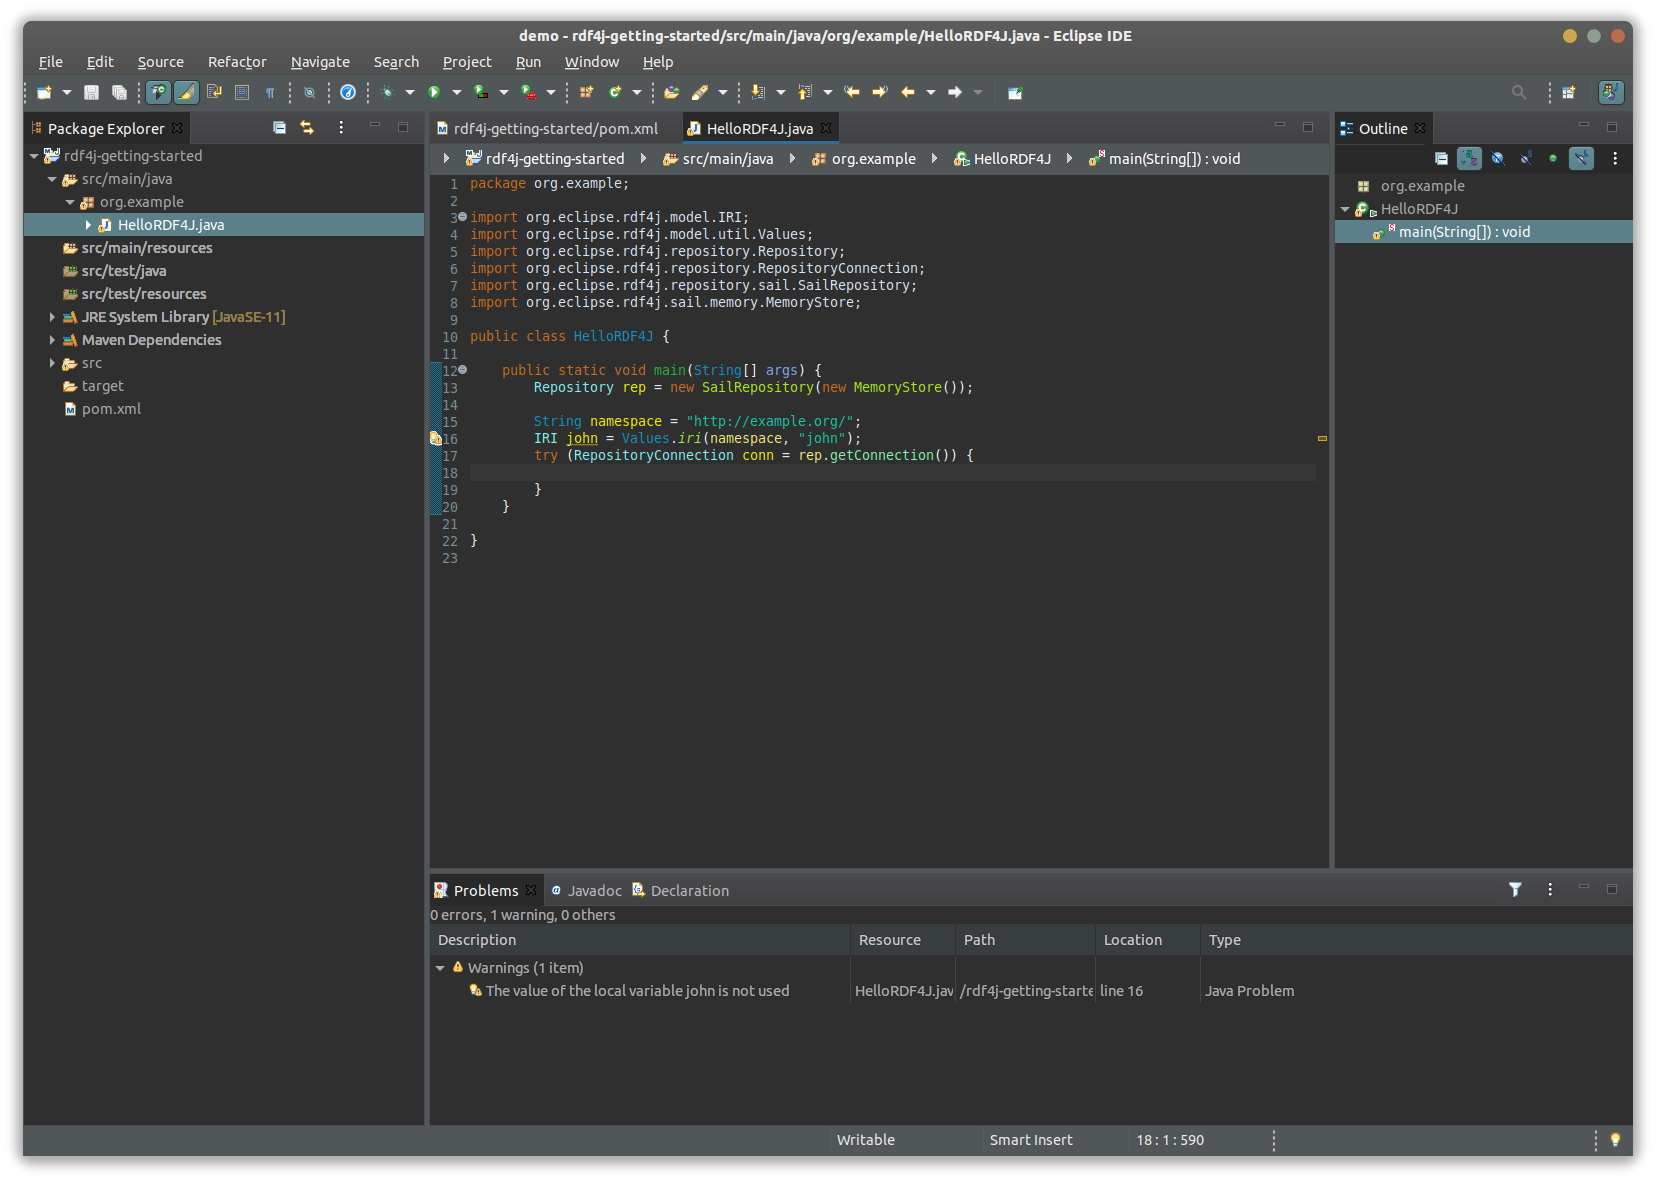
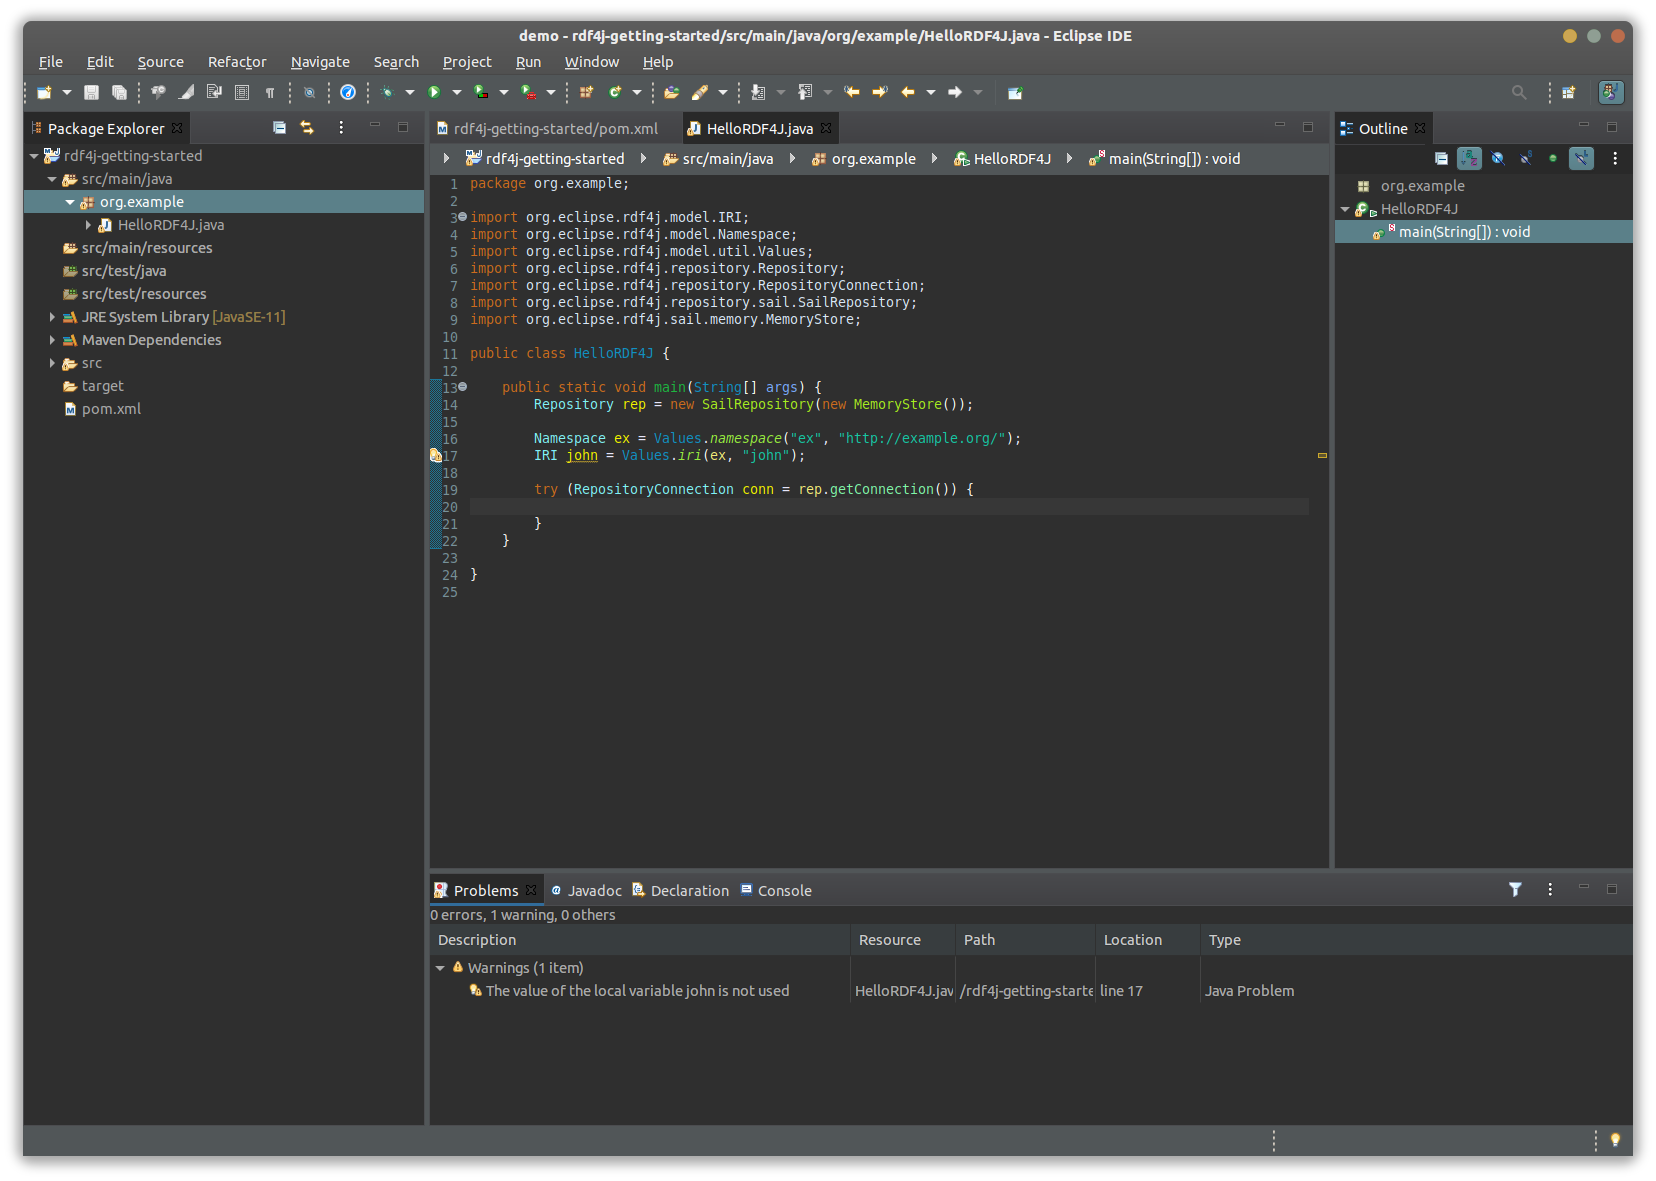
GH-2878 minor editorial changes

diff --git a/site/content/documentation/tutorials/maven-eclipse-project.md b/site/content/documentation/tutorials/maven-eclipse-project.md
@@ -11,11 +11,11 @@ If you are new to RDF4J, or to tools like Eclipse IDE or Apache Maven, this tuto
 You don't <i>have</i> to use Apache Maven or Eclipse IDE if you want to work with RDF4J. These are simply very useful tools for quickly getting a Java project started. Maven is good because it allows you to just define which libraries you want to use and never worry about any further third-party libraries you might need, and Eclipse IDE is good because it has good integration with Maven, code completion features, and is just generally a great Java development environment. But you can work with RDF4J just as well in a different build tool or IDE.
 {{</ info >}}
 
-In this tutorial, I assume that you have a basic understanding of programming in Java, and have at least an inkling of what RDF is. However, I do not assume that you know how to use either RDF4J, Maven, or Eclipse, so we’ll go through it all one step at a time. If anything is already sufficiently familiar to you, you are of course free to skip ahead!
+In this tutorial, we assume that you have a basic understanding of programming in Java, and have at least an inkling of what RDF is. However, we do not assume that you know how to use either RDF4J, Maven, or Eclipse, so we'll go through it all one step at a time. If anything is already sufficiently familiar to you, you are of course free to skip ahead!
 
 ## Setting up your environment
 
-Before we kick off, you will need to install the [Eclipse IDE](http://eclipse.org/). In this tutorial, we will use Eclipse for Java EE Developers version 4.5.2 (Mars.2), but it shouldn’t matter too much which exact version you have installed. Select either the "Eclipse for Java developers" or "Eclipse for Java EE developers" installation option.
+Before we kick off, you will need to install the [Eclipse IDE](http://eclipse.org/). In this tutorial, we will use Eclipse for Java Developer version 4.18.0 (2020-12), but it shouldn’t matter too much which exact version you have installed. Select either the "Eclipse for Java developers" or "Eclipse for Java EE developers" installation option.
 
 Eclipse IDE comes with a Maven plugin (called m2e) already installed. We will use this plugin to work with Maven. You are of course free to also install the Maven command line tools, but we won’t be using those directly in this tutorial.
 
@@ -30,7 +30,7 @@ Once Eclipse is started (and any welcome messages have been closed), you will be
 
 Before we start creating our actual project in Eclipse, there are a few preferences that we should tweak. This step is not required, but it will make things a little easier in the rest of this tutorial.
 
-From the menu, select `Eclipse -> Preferences`. The Preferences dialog pops up. On the left, select `Maven`. You will see the Maven configuration settings. The options “Download Artifact Sources” and “Download Artifact JavaDoc” are unchecked by default. Check them both, then click OK.
+From the menu, select `Eclipse -> Preferences`. The Preferences dialog pops up. On the left, select `Maven`. You will see the Maven configuration settings. The options "Download Artifact Sources" and "Download Artifact JavaDoc" are unchecked by default. Check them both, then click OK.
 
 <a href="../images/eclipse-mvn-prefs.png" target="new"><img src="../images/eclipse-mvn-prefs.png" alt="Eclipse Maven preferences" class="img-responsive"/></a>
 
@@ -38,11 +38,11 @@ The reason we want this, by the way, is that having either the sources or the Ja
 
 ## Creating a new project
 
-Now that we’re all set up, we can kick things off by creating a new project. Select the File menu, then `New -> New Project...` . A dialog will appear. In this dialog, select the option `Maven Project`:
+Now that we're all set up, we can kick things off by creating a new project. Select the File menu, then `New -> New Project...` . A dialog will appear. In this dialog, select the option `Maven Project`:
 
 <a href="../images/eclipse-create-project-mvn.png" target="new"><img src="../images/eclipse-create-project-mvn.png" alt="New project wizard" class="img-responsive"/></a>
 
-Once you click Next, you will be presented with a screen to create a new Maven Project. Make you sure the option ‘Create a simple project’ is checked:
+Once you click Next, you will be presented with a screen to create a new Maven Project. Make you sure the option 'Create a simple project' is checked:
 
 <a href="../images/eclipse-create-simple.png" target="new"><img src="../images/eclipse-create-simple.png" alt="New Maven project" class="img-responsive"/></a>
 
@@ -58,13 +58,13 @@ Once this has been filled in you can click Finish. We now have our first Eclipse
 
 ## Defining the POM
 
-So we have a project. That’s great, but it’s still empty: we haven’t added any code or necessary libraries (such as the RDF4J libraries) yet.
+So we have a project. That's great, but it's still empty: we haven't added any code or necessary libraries (such as the RDF4J libraries) yet.
 
-We will remedy the library-situation first. In Maven, requirements for libraries (we’re talking about jar files here) are specified in a special project configuration file called `pom.xml`, often referred to as "the POM". Open your project and you will see that a file with that name is already present. Doubleclick it to open it in the POM editor:
+We will remedy the library-situation first. In Maven, requirements for libraries (we're talking about jar files here) are specified in a special project configuration file called `pom.xml`, often referred to as "the POM". Open your project and you will see that a file with that name is already present. Doubleclick it to open it in the POM editor:
 
 <a href="../images/eclipse-pom.png" target="new"><img src="../images/eclipse-pom.png" alt="The POM editor" class="img-responsive"/></a>
 
-As you can see, the POM already contains some information – in fact the information that we added when we created our project. However, we need to add more information about our project. Specifically, we want to add which external Java libraries (jar files) we want to include in our project. In Maven, you do this by specifying dependencies. Switch to the Dependencies tab.
+As you can see, the POM already contains some information – in fact the information that we added when we created our project. However, we need to add more information about our project. Specifically, we want to add which external Java libraries we want to include in our project. In Maven, you do this by specifying dependencies.
 
 The first dependency we will add is for RDF4J itself. RDF4J is not a single library, but consists of a large collection of separate modules, allowing you to pick and choose which functionality you need. To make handling of all the various modules and the dependencies they all need easier, we will first add a "Bill Of Materials" (BOM) dependency. The easiest way to do this is to edit the XML source code directly. Switch to the 'pom.xml' tab of the POM editor, and add the following XML fragment:
 
@@ -86,7 +86,7 @@ It should look like this after you've added this and saved the file:
 
 <a href="../images/eclipse-rdf4j-bom.png" target="new"><img src="../images/eclipse-rdf4j-bom.png" alt="The RDF4J BOM" class="img-responsive"/></a>
 
-Next we need to add the actual RDF4J modules we want to use. As said, this is where you could pick and choose the specific modules (parsers, databases, etc) that you want. For this tutorial, however, we’ll be lazy and just add the entire core framework. We do this by adding the `rdf4j-storage` dependency, as follows:
+Next we need to add the actual RDF4J modules we want to use. As said, this is where you could pick and choose the specific modules (parsers, databases, etc) that you want. For this tutorial, however, we'll be lazy and just add the entire core framework. We do this by adding the `rdf4j-storage` dependency, as follows:
 
 ```xml
 <dependencies>
@@ -98,11 +98,11 @@ Next we need to add the actual RDF4J modules we want to use. As said, this is wh
 </dependencies>
 ```
 
-Notice that because we already have a BOM added, we don't need to specify a version number for this dependency. Once you have done this and save the file, Eclipse will automatically begin downloading the RDF4J libraries. This may take a little while, just let it do its thing. Once it's read, your POM should look like this:
+Notice that because we already have a BOM added, we don't need to specify a version number for this dependency. Once you have done this and save the file, Eclipse will automatically begin downloading the RDF4J libraries. This may take a little while, just let it do its thing. Once it's complete, your POM should look like this:
 
 <a href="../images/eclipse-rdf4j-dep.png" target="new"><img src="../images/eclipse-rdf4j-dep.png" alt="The RDF4J dependencies" class="img-responsive"/></a>
 
-We are going to add one more dependency, namely for a logging framework. RDF4J uses the [SLF4J logging API](https://slf4j.org/), which requires a logging implementation, so we’ll provide one, in this case slf4j-simple (which is as the name implies a very simple logging library that by default just logs to the console). Add a new dependency, with group id `org.slf4j`, artifact id `slf4j-simple`. Again we don't need to specify a version number: the RDF4J Bill of Materials already specifies which version of slf4j is compatible with RDF4J:
+We are going to add one more dependency, namely for a logging framework. RDF4J uses the [SLF4J logging API](https://slf4j.org/), which requires a logging implementation, so we’ll provide one, in this case slf4j-simple (which is, as the name implies, a very simple logging library that by default just logs to the console). Add a new dependency, with group id `org.slf4j`, artifact id `slf4j-simple`. Again we don't need to specify a version number: the RDF4J Bill of Materials already specifies which version of slf4j is compatible with RDF4J:
 
 ```xml
 <dependency>
@@ -126,7 +126,7 @@ If you are interested in having more control over which libraries are and aren't
 
 Unfortunately the default Maven archetype that we used to create our new project uses a very old Java compiler (1.5) by default. Since RDF4J requires Java 8 at a minimum (we actually recommend Java 11 for better performance), we will need to change this.
 
-Copy-paste (or type if you prefer) the following section into the xml file (put it just above the `dependencyManagement` section we added in earlier). This will set the version of Java to Java 11.
+Copy-paste (or type if you prefer) the following section into the xml file (put it just above the `dependencyManagement` section we added in earlier). This will set the version to Java 11.
 
 ```xml
 <properties>
@@ -141,7 +141,7 @@ Once you have done this, and saved your POM, you will need to manually update yo
 
 ## Programming our first Semantic Web application
 
-We’re done preparing, we can start programming! Right-click on `src/main/java` and select `New -> Class`. In the dialog shown, set the package name to `org.example`, the class name to `HelloRDF4J`, and make sure the option `public static void main (String[] args)` is checked:
+We're done preparing, we can start programming! Right-click on `src/main/java` and select `New -> Class`. In the dialog shown, set the package name to `org.example`, the class name to `HelloRDF4J`, and make sure the option `public static void main (String[] args)` is checked:
 
 <a href="../images/eclipse-new-class.png" target="new"><img src="../images/eclipse-new-class.png" alt="Creating a new class" class="img-responsive"/></a>
 
@@ -157,7 +157,7 @@ Once you have done this and saved the file, you will notice some red lines appea
 
 <a href="../images/eclipse-red-lines.png" target="new"><img src="../images/eclipse-red-lines.png" alt="Red lines in the editor" class="img-responsive"/></a>
 
-This is Eclipse telling you that there is something wrong with your code. In this case, the problem is that several import statements are missing (note that Eclipse tells you what is wrong in detail as well in the 'Problems' tab underneath the editor). We’ll need to add those import statements. You can add each import manually of course, but luckily Eclipse has a shortcut. Hit Ctrl-Shift-O and Eclipse should automatically resolve all missing imports for you. It will pop up a dialog if there is more than one possibility for a particular import, which will like happen for the `Repository` interface. Just pick the one from `org.eclipse.rdf4j`:
+This is Eclipse telling you that there is something wrong with your code. In this case, the problem is that several import statements are missing (note that Eclipse tells you what is wrong in detail as well in the 'Problems' tab underneath the editor). We'll need to add those import statements. You can add each import manually of course, but luckily Eclipse has a shortcut. Hit Ctrl+Shift+O and Eclipse should automatically resolve all missing imports for you. It will pop up a dialog if there is more than one possibility for a particular import, which will like happen for the `Repository` interface. Just pick the one from `org.eclipse.rdf4j`:
 
 <a href="../images/eclipse-import-resolve.png" target="new"><img src="../images/eclipse-import-resolve.png" alt="Resolve imports" class="img-responsive"/></a>
 
@@ -165,19 +165,14 @@ Hit 'Finish', then save your code.
 
 Now that we have created our repository, we are going to put some data in it, and then get that data out again and print it to the console.
 
-Adding data can be done in numerous ways. In this tutorial, we will be creating a few RDF statements directly in Java (rather than, say, loading them from a file). To do this, we need a namespace that we can use to create any new IRIs we need.
+Adding data can be done in numerous ways. In this tutorial, we will be creating a few RDF statements directly in Java (rather than, say, loading them from a file). To do this, we need a namespace that we can use to create any new IRIs we need. With this namespace, we can create a new IRI. We will create an identifier for a person called "John", about whom we will later add some data to our repository:
 
 ```java
-String namespace = "http://example.org/";
+Namespace ex = Values.namespace("ex", "http://example.org/");
+IRI john = Values.iri(ex, "john");
 ```
 
-With this, we can create a new IRI. We will create an identifier for a person called “John”, about whom we will later add some data to our repository:
-
-```java
-IRI john = Values.iri(namespace, "john");
-```
-
-We use a static factory function (`Values.iri`) to easily create new IRIs and other types of values.
+We use a static factory(the `Values` class) to easily create new Namespaces, IRIs and other types of values.
 
 We have now created a IRI, but have not yet added any data to our repository. To do this, we first need to open a RepositoryConnection. Such a connection allows us to add, remove, and retrieve data from our Repository. We do this as follows:
 
@@ -185,7 +180,7 @@ We have now created a IRI, but have not yet added any data to our repository. To
 RepositoryConnection conn = rep.getConnection();
 ```
 
-It is important to keep track of open connections and to close them again when we are finished with them, to free up any resources the connection may keep hold of. RDF4J connections are "AutoCloseable", which means we can let Java handle the closing of the connection when we’re done with it, rather than having to deal with this ourselves. We use a try-with-resources construction for this, like so:
+It is important to keep track of open connections and to close them again when we are finished with them, to free up any resources the connection may keep hold of. RDF4J connections are "AutoCloseable", which means we can let Java handle the closing of the connection when we’re done with it, rather than having to deal with this ourselves. We use a [try-with-resources](https://docs.oracle.com/javase/tutorial/essential/exceptions/tryResourceClose.html) construction for this, like so:
 
 ```java
 try (RepositoryConnection conn = rep.getConnection()) {
@@ -196,7 +191,7 @@ Your code should now look as follows:
 
 <a href="../images/eclipse-code-1.png" target="new"><img src="../images/eclipse-code-1.png" alt="Java code 1" class="img-responsive"/></a>
 
-Using the connection, we can start adding statements to our repository. We will add two triples, one to assert that John is a Person, and one to assert that John’s name is “John”:
+Using the connection, we can start adding statements to our repository. We will add two triples, one to assert that John is a Person, and one to assert that John's name is "John":
 
 ```java
 conn.add(john, RDF.TYPE, FOAF.PERSON);
@@ -213,7 +208,7 @@ RepositoryResult<Statement> statements = conn.getStatements(null, null, null);
 
 We use the `getStatements()` method to retrieve data from the repository. The three arguments (all null) are for the subject, predicate, and object we wish to match. Since they are all set to null, this will retrieve all statements.
 
-The object returned by `getStatements()` is a `RepositoryResult`, which is a type of `Iterable`: it allows you to process the result in a streaming fashion, using its `hasNext()` and `next()` methods, as well as using Java's for-each loop to iterate over it. Almost all the methods that retrieve data from a `Repository` return a type of `Iterable`: they are very useful for processsing very large result sets, because they do not require that the entire result is kept in memory all at the same time.
+The object returned by `getStatements()` is a `RepositoryResult`, which implements both `Iteration` and `Iterable`: it allows you to process the result in a streaming fashion, using its `hasNext()` and `next()` methods, as well as using Java's for-each loop to iterate over it. Almost all the methods that retrieve data from a `Repository` return such a streaming/iterating object: they are very useful for processsing very large result sets, because they do not require that the entire result is kept in memory all at the same time.
 
 It is important to always call `close()` on this kind of result object when you are done with them, to avoid memory leaks and other problems. Since the `RepositoryResult` is _also_ a `AutoCloseable`, you can use a try-with-resources construction (similar to what we used for opening the connection) to handle this.
 
@@ -223,15 +218,15 @@ However, since our `Repository` only contains 2 statements, we can safely just t
 Model model = QueryResults.asModel(statements);
 ```
 
-The `QueryResults` utility retrieves all the statements from the supplied `Iterable`, and puts them in a `Model`. It also automatically closes the `Iterable` for you.
+The `QueryResults` utility retrieves all the statements from the supplied result, and puts them in a `Model`. It also automatically closes the result object for you.
 
-Finally, we want to print out our data to the console. This too is something you can do in numerous ways, but let’s just say we would like to print out our data in Turtle format. Here’s how:
+Finally, we want to print out our data to the console. This too is something you can do in numerous ways, but let's just say we would like to print out our data in [Turtle](https://www.w3.org/TR/turtle/) format. Here's how:
 
 ```java
 Rio.write(model, System.out, RDFFormat.TURTLE);
 ```
 
-Rio (which stands for “RDF I/O”) is the RDF4J parser/writer toolkit. We can just pass it our model, specify the outputstream, and the format in which we’d like it sent, and Rio does the rest. Your code should now look like this:
+Rio (which stands for "RDF I/O") is the RDF4J parser/writer toolkit. We can just pass it our model, specify the outputstream, and the format in which we'd like it written, and Rio does the rest. Your code should now look like this:
 
 <a href="../images/eclipse-code-2.png" target="new"><img src="../images/eclipse-code-2.png" alt="Java code 2" class="img-responsive"/></a>
 
@@ -250,7 +245,7 @@ However, it is a bit ugly, using all those long IRIs. We can make the output a b
 model.setNamespace(RDF.NS);
 model.setNamespace(RDFS.NS);
 model.setNamespace(FOAF.NS);
-model.setNamespace("ex", namespace);
+model.setNamespace(ex);
 ```
 
 Add these lines to your code, directly after where you have created the model. Then run your program again. You will now see the following:
